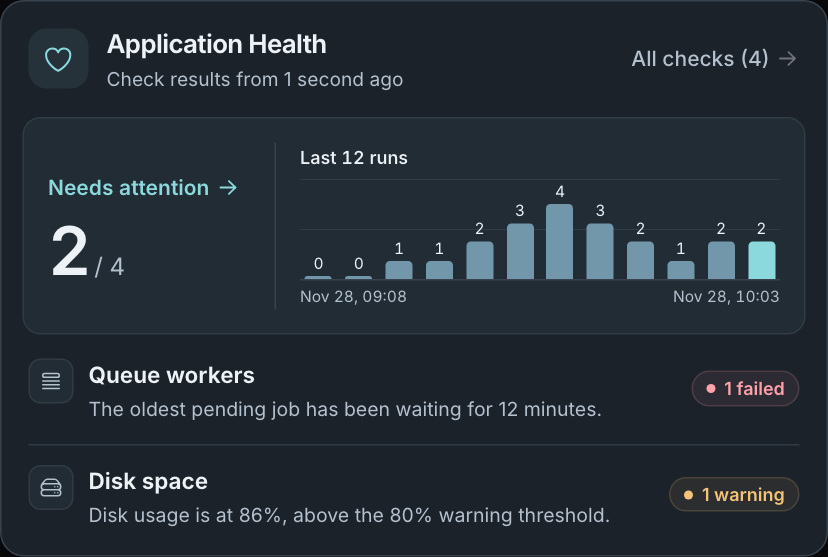
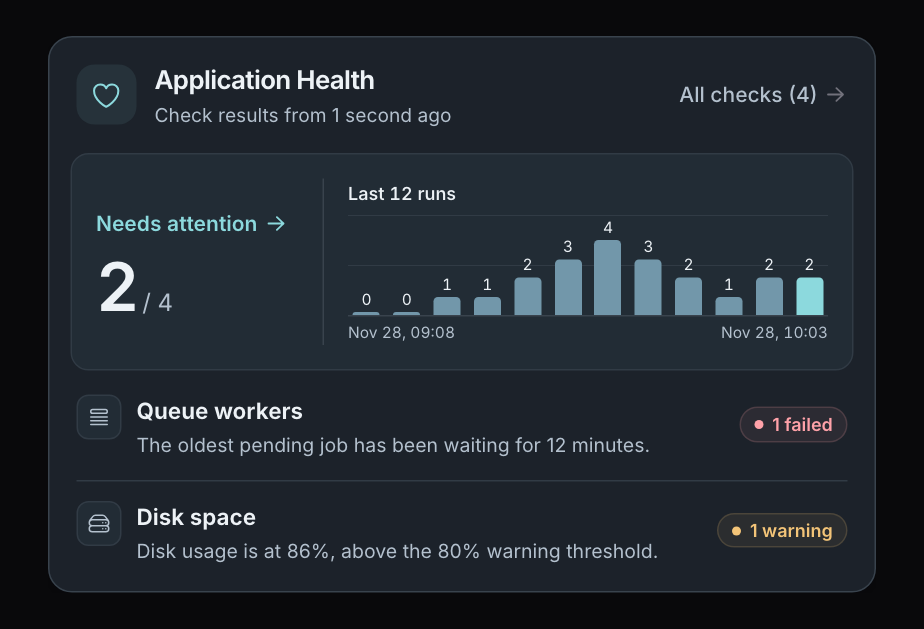
docs: show padded light and dark previews together

diff --git a/README.md b/README.md
@@ -8,12 +8,13 @@
 
 This package adds a Filament page for monitoring checks registered with [spatie/laravel-health](https://spatie.be/docs/laravel-health/v1/introduction). It supports Filament 4 and 5 and PHP 8.2 or newer. CI tests PHP 8.6 with Laravel 13.
 
-<picture>
-  <source media="(prefers-color-scheme: dark)" srcset="art/results-dark.png">
-  <img src="art/results-light.png" alt="Application Health results showing a failed queue check, a disk warning, and two passing checks">
-</picture>
+**Light mode**
 
-View the results page in [light mode](art/results-light.png) or [dark mode](art/results-dark.png).
+![Application Health in light mode showing one failed check, one warning, and two passing checks](art/results-light.png)
+
+**Dark mode**
+
+![The same four health checks in dark mode](art/results-dark.png)
 
 ## Installation
 
@@ -102,12 +103,9 @@ Enable the widget in the panel provider for each dashboard where you want it:
 $panel->plugin(FilamentSpatieLaravelHealthPlugin::make()->dashboardWidget());
 ```
 
-<picture>
-  <source media="(prefers-color-scheme: dark)" srcset="art/widget-dark.png">
-  <img src="art/widget-light.png" width="552" alt="Dashboard widget with two of four checks needing attention, a 12-run history chart, and messages for the queue and disk checks">
-</picture>
-
-View the widget in [light mode](art/widget-light.png) or [dark mode](art/widget-dark.png).
+| Light mode | Dark mode |
+| --- | --- |
+| ![Dashboard widget in light mode showing two checks needing attention and the last 12 runs](art/widget-light.png) | ![The same dashboard widget and run history in dark mode](art/widget-dark.png) |
 
 The widget reads saved results every minute while visible. It shows the last run time and previews up to two checks per affected status, starting with crashed and failed checks.
 
